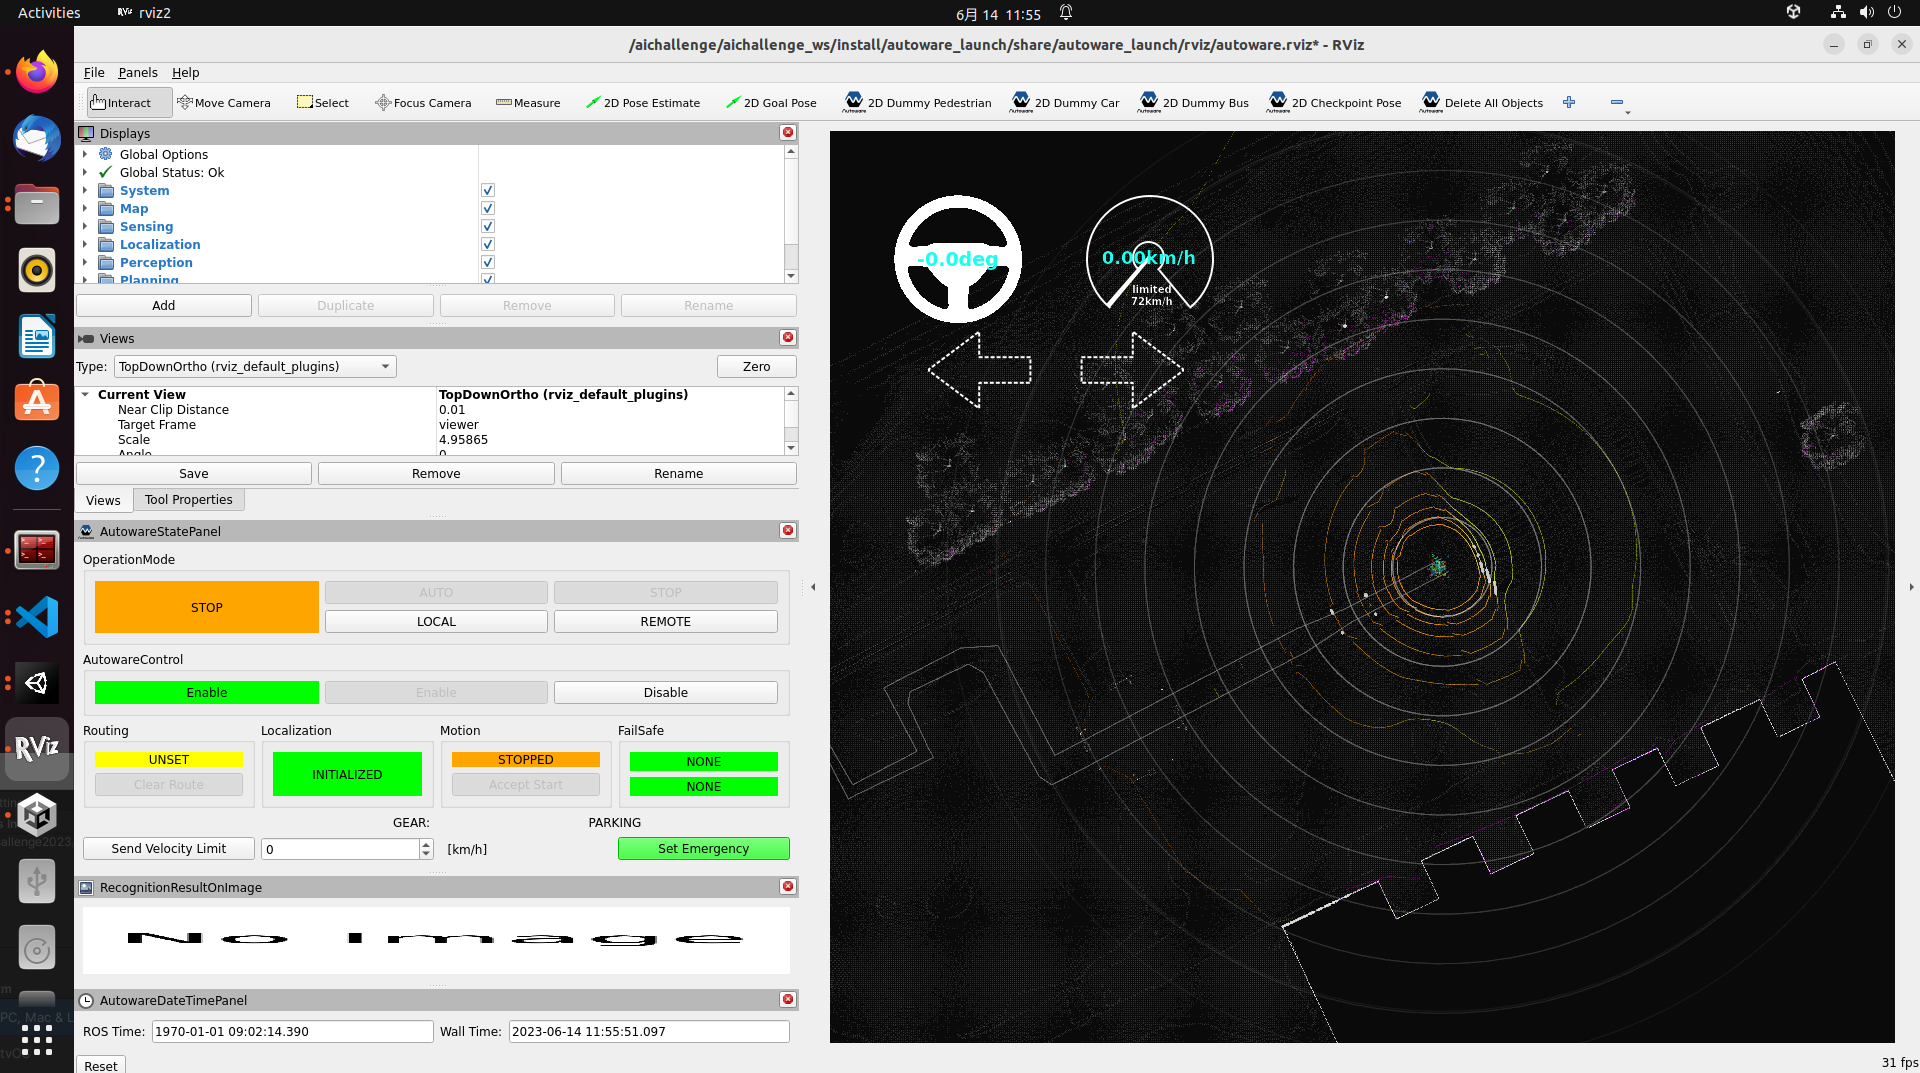
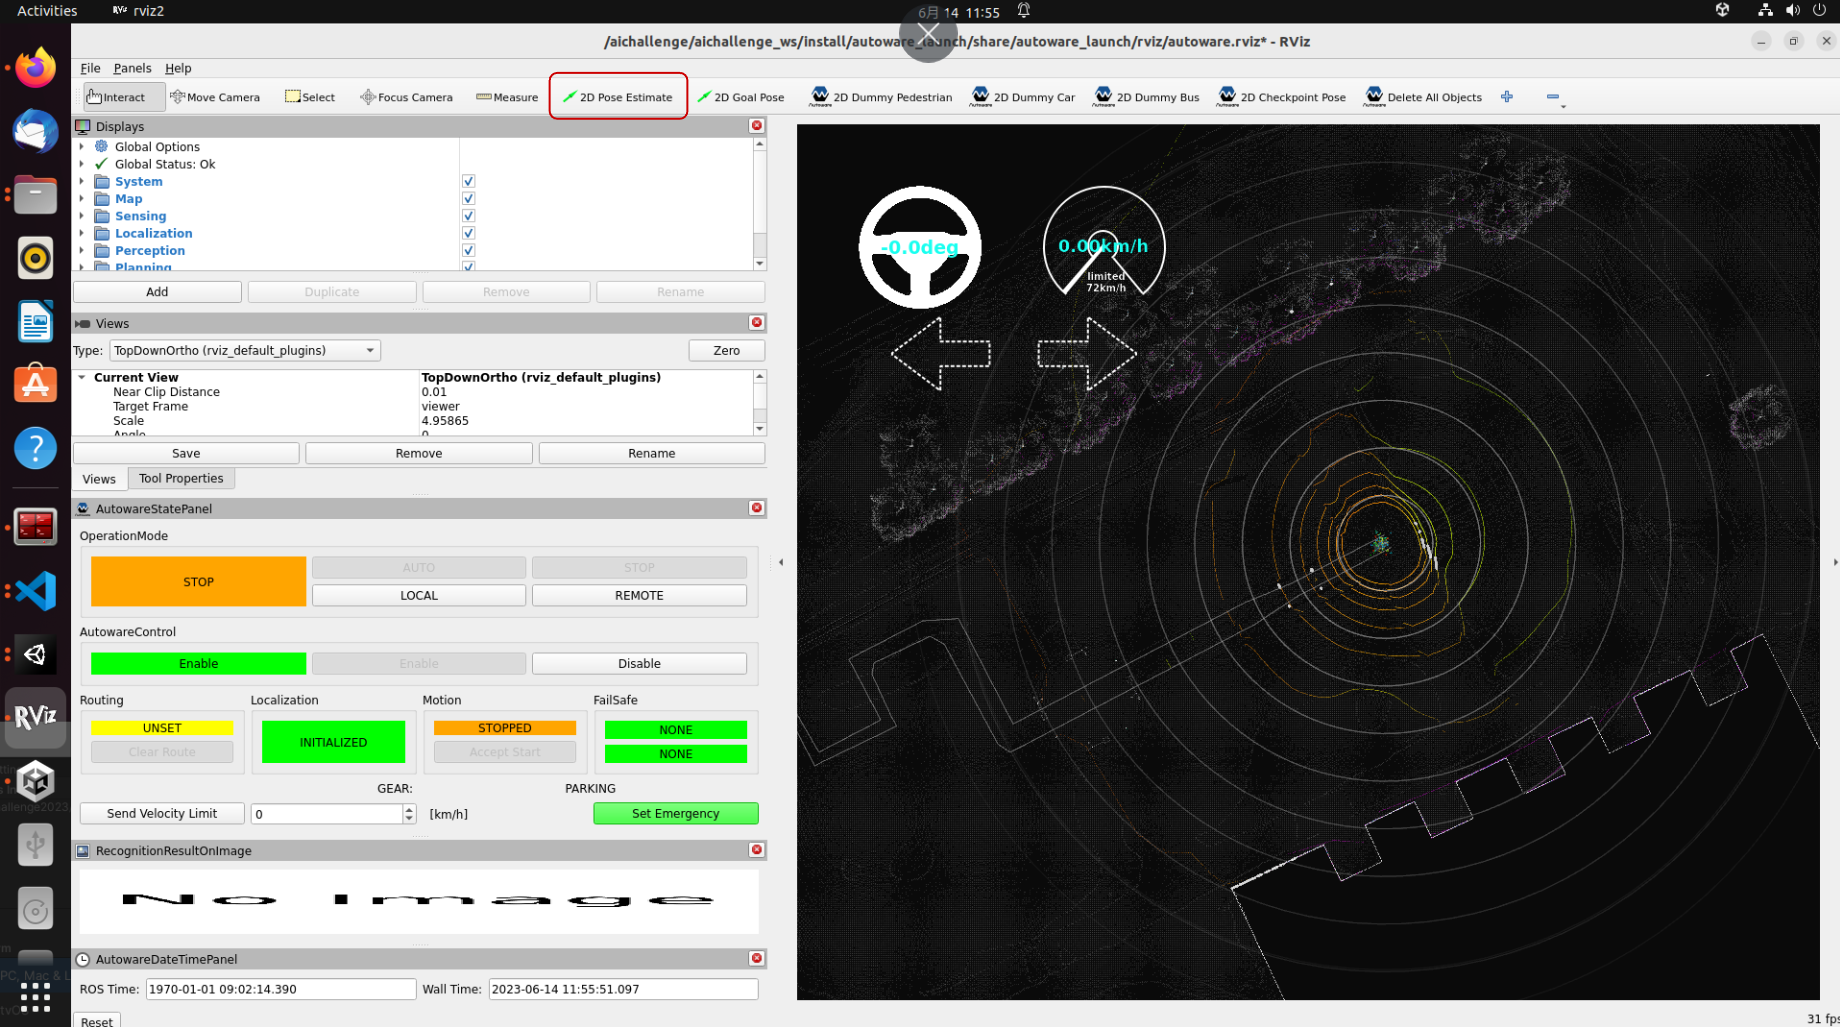
deploy: 634e6b816ab4edbd1c98000900c72a65cd456179

diff --git a/setup/index.html b/setup/index.html
@@ -154,6 +154,15 @@
 </ol>
 </li>
 </ul>
+<h4 id="dockerコンテナ内でのawsim起動">Dockerコンテナ内でのAWSIM起動</h4>
+<p>DockerコンテナからAWSIMを起動したい場合は、Dockerイメージの準備手順(後述)に従ってDockerイメージを導入した後、以下の手順で行ってください。</p>
+<ol>
+<li><code>aichallenge2023-sim/autoware</code>内に大会用実行ファイルを展開(以下、<code>aichallenge2023-sim/autoware/AWSIM/AWSIM.x86_64</code>に配置されているものとします。)</li>
+<li>Dockerコンテナを起動
+<code>cd aichallenge2023-sim rocker --nvidia --x11 --user --net host --privileged --volume autoware:/aichallenge -- ghcr.io/automotiveaichallenge/aichallenge2023-sim/autoware-universe-cuda:v1</code></li>
+<li>コンテナ内で以下を実行
+<code>export ROS_LOCALHOST_ONLY=1 export RMW_IMPLEMENTATION=rmw_cyclonedds_cpp export RCUTILS_COLORIZED_OUTPUT=1 source /autoware/install/setup.bash /aichallenge/AWSIM/AWSIM.x86_64</code></li>
+</ol>
 <h3 id="awsimwindows">AWSIM(Windows)</h3>
 <ol>
 <li>大会用の実行ファイルを<a href="https://drive.google.com/file/d/1L6jr9wttxA2aLl8IqC3xDXIuQUfjMTAJ/view?usp=sharing">ダウンロード</a>し、解凍
@@ -198,7 +207,7 @@ git lfs clone https://github.com/AutomotiveAIChallenge/aichallenge2023-sim
 <ol start="3">
 <li>rockerを起動</li>
 </ol>
-<pre><code>cd ./aichallenge2023-sim
+<pre><code>cd aichallenge2023-sim
 rocker --nvidia --x11 --user --net host --privileged --volume autoware:/aichallenge -- ghcr.io/automotiveaichallenge/aichallenge2023-sim/autoware-universe-cuda:v1
 </code></pre>
 </li>
@@ -221,20 +230,14 @@ ros2 launch autoware_launch e2e_simulator.launch.xml vehicle_model:=golfcart sen
 <li><p>下記のような画面(Rviz2)が表示されることを確認<br>
 <img src="../images/setup/autoware1.png" alt="autoware1"></p>
 </li>
-<li><p>自己位置推定ができていることを確認<br>
+<li><p>自己位置推定ができていることを確認。正しく推定できていなければ、タブにある2D Pose Estimateを選択し、実際の車両の位置をドラッグで指定<br>
 <img src="../images/setup/autoware2.png" alt="autoware2"></p>
 </li>
-<li><p>正しく推定できていなければ、タブにある2D Pose Estimateを選択し、実際の車両の位置をドラッグで指定<br>
+<li><p>タブにある2D Goal Poseを選択し、ゴールポジションをドラッグで指定。画像のように、ルートが表示されている かつ <code>Routing</code>が<code>UNSET</code>から<code>SET</code>に変わっていることを確認（指定してから少し時間がかかります）<br>
 <img src="../images/setup/autoware3.png" alt="autoware3"></p>
 </li>
-<li><p>タブにある2D Goal Poseを選択し、ゴールポジションをドラッグで指定<br>
+<li><p><code>OperationMode</code>の<code>AUTO</code>ボタンを押下し、自動運転が開始されることを確認<br>
 <img src="../images/setup/autoware4.png" alt="autoware4"></p>
-</li>
-<li><p>画像のように、ルートが表示されている かつ 「waiting for engage」状態になっていることを確認（指定してから少し時間がかかります）
-<img src="../images/setup/autoware7.png" alt="autoware7"></p>
-</li>
-<li><p>engageボタンを押下し、自動運転が開始されることを確認<br>
-<img src="../images/setup/autoware8.png" alt="autoware8"></p>
 </li>
 </ol>
 </li>
